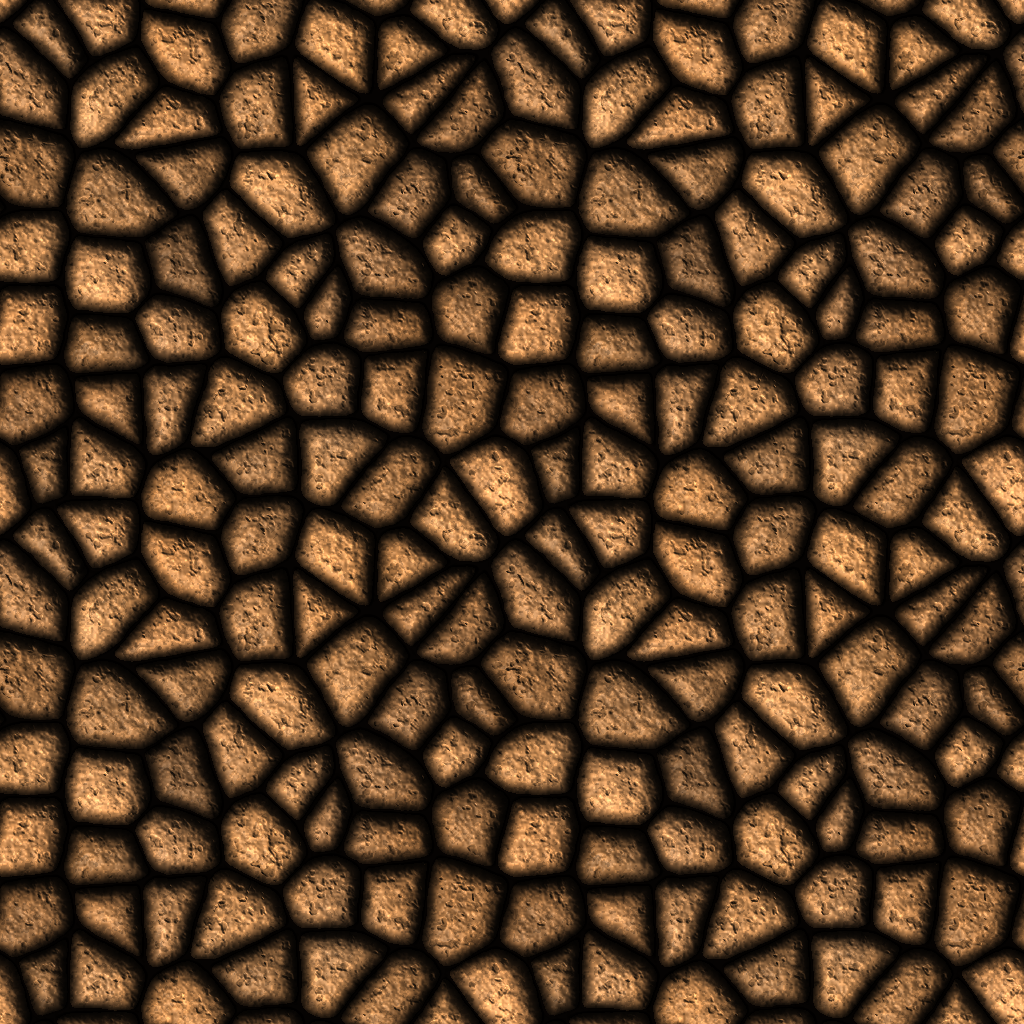
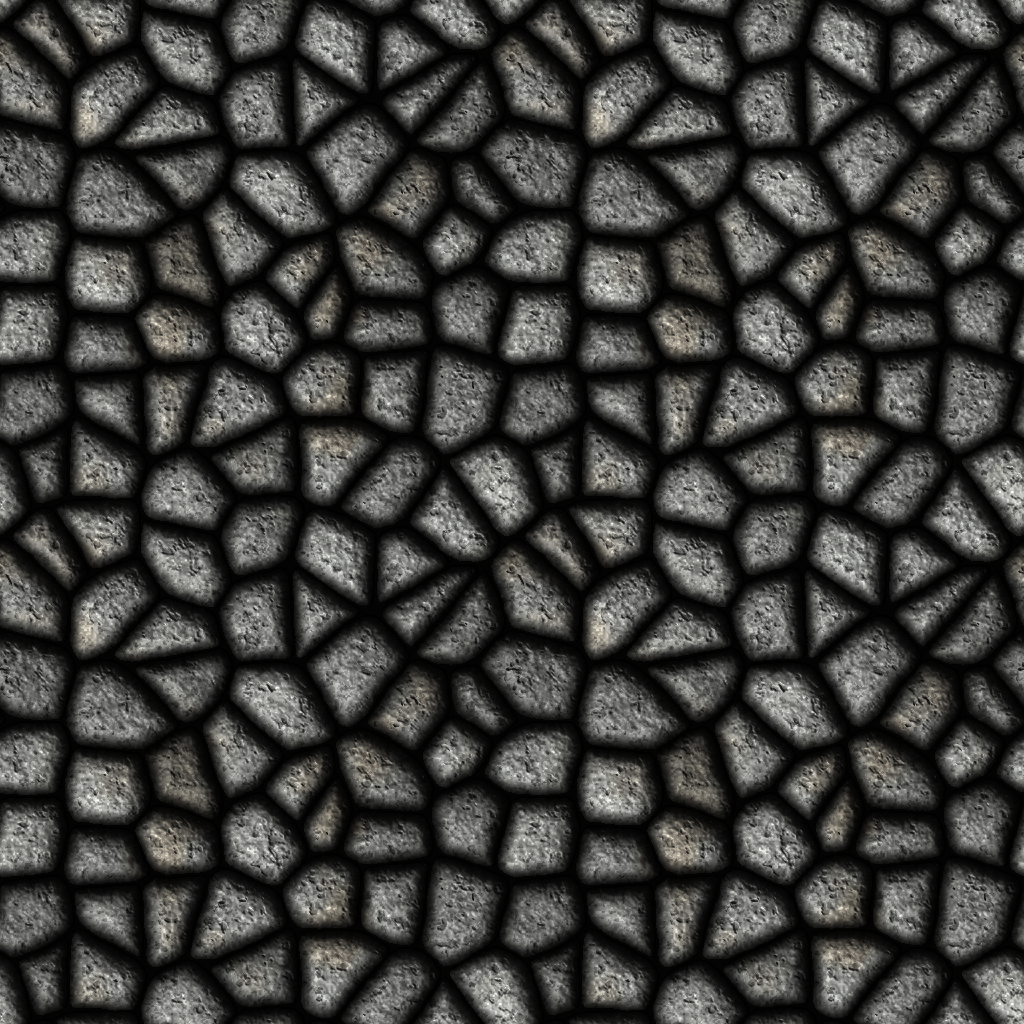
DRAFT (untested): Stone Skin as a Body-school power (0x10301), elixir removed
Stopped at 09:19 UTC: the trigger moved to the Powers thread. Harness not updated.
excamera/stone-skin-04-grey-granite.patch is final and on master too.

diff --git a/icon.py b/icon.py
@@ -1,0 +1,74 @@
+"""Paints the Body school's icon sheet (thmbdyico1) cell 1, Stone Skin: an original,
+procedural image. A head and shoulders of grey stone plates, lit from the upper left,
+inside the black disc the game's power icons sit in. Nothing is copied from the game.
+Needs only Pillow.
+
+    python -X utf8 -B icon.py out.png
+"""
+import math
+import random
+import sys
+
+from PIL import Image, ImageFilter
+
+CELL = 512
+SEED = 0x10301
+
+
+def draw() -> Image.Image:
+    rng = random.Random(SEED)
+    # Plate centres over the cell (a jittered grid), for a Voronoi of rock plates.
+    step = 46
+    points = [(x * step + rng.uniform(6, step - 6), y * step + rng.uniform(6, step - 6), rng.uniform(.75, 1.1))
+              for y in range(CELL // step + 2) for x in range(CELL // step + 2)]
+    grid = {}
+    for i, (px, py, _) in enumerate(points):
+        grid.setdefault((int(px // step), int(py // step)), []).append(i)
+
+    def plates(x: float, y: float):
+        """(distance to the nearest plate edge, shade of that plate)."""
+        cx, cy = int(x // step), int(y // step)
+        near = [i for gx in range(cx - 1, cx + 2) for gy in range(cy - 1, cy + 2) for i in grid.get((gx, gy), [])]
+        near.sort(key=lambda i: (points[i][0] - x) ** 2 + (points[i][1] - y) ** 2)
+        a, b = points[near[0]], points[near[1]]
+        ex, ey = b[0] - a[0], b[1] - a[1]
+        length = math.hypot(ex, ey) or 1
+        edge = ((a[0] + b[0]) / 2 - x) * ex / length + ((a[1] + b[1]) / 2 - y) * ey / length
+        return edge, a[2], a[0], a[1]
+
+    # The silhouette: a head and shoulders, the body the power turns to stone.
+    def inside(x: float, y: float) -> float:
+        head = ((x - 256) / 74) ** 2 + ((y - 196) / 92) ** 2 < 1
+        neck = abs(x - 256) < 44 and 260 < y < 340
+        shoulders = ((x - 256) / 206) ** 2 + ((y - 470) / 150) ** 2 < 1
+        return 1.0 if head or neck or shoulders else 0.0
+
+    image = Image.new('RGB', (CELL, CELL))
+    pixels = image.load()
+    for y in range(CELL):
+        for x in range(CELL):
+            r = math.hypot(x - 256, y - 256)
+            if r > 250:
+                pixels[x, y] = (0, 0, 0)
+                continue
+            back = int(26 + 14 * (1 - r / 250))
+            if not inside(x, y):
+                pixels[x, y] = (back, back, back + 3)
+                continue
+            edge, shade, cx, cy = plates(x, y)
+            # Rounded slabs: dark crevice, a dome lit from the upper left, grit over all.
+            t = min(1.0, max(0.0, (edge - 2.0) / 12.0))
+            dome = math.sqrt(1 - (1 - t) ** 2)
+            dx, dy = x - cx, y - cy
+            dist = math.hypot(dx, dy) or 1
+            facing = (-dx - dy) / (dist * 1.414) * (1 - t)  # the bevel faces away from the plate centre
+            v = (95 * shade * (.55 + .45 * dome) + 70 * facing) * rng.uniform(.86, 1.14)
+            if edge < 2.0:
+                v = 18
+            v = max(0, min(255, v))
+            pixels[x, y] = (int(v * 1.02), int(v), int(v * .96))
+    return image.filter(ImageFilter.SMOOTH)
+
+
+if __name__ == '__main__':
+    draw().save(sys.argv[1])
